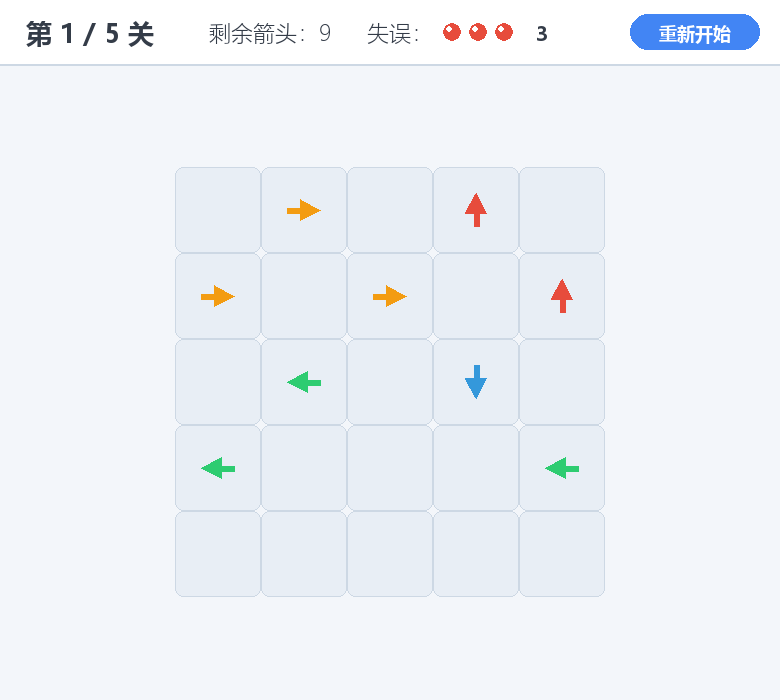
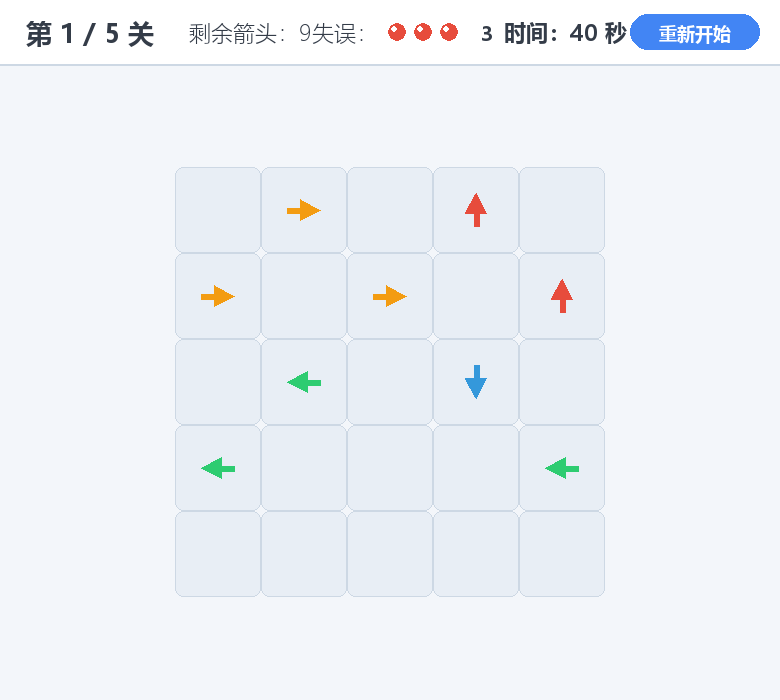
docs: 更新README、截图与流程图

Changed region(s): [[0.2462, 0.03, 0.8, 0.06]]

diff --git a/README.md b/README.md
@@ -13,17 +13,31 @@
 
 游戏包含 **5 个关卡**，箭头密度逐级增大（从 9 个到 30 个，最后一关 8×8 接近铺满棋盘），后两关失误次数降为 2 次，难度逐步提升。第 1 关为手工设计的新手关，第 2~5 关由 `tools/generate_level.py` 随机生成（逆向构造法，保证可通关），方向完全打散，不会出现“一整行同一方向”的规律布局。所有关卡均通过可解性求解器校验。
 
+**每关限时**：HUD 显示剩余秒数（≤10 秒变红），超时未通关则本关失败；**通关后按“用时 + 失误次数”评定 1~3 颗星**，全部通关界面显示总星数（满分 15 星）。
+
 ## 关卡难度表
 
-| 关卡 | 棋盘 | 箭头数量 | 依赖深度* | 失误次数 |
-| --- | --- | --- | --- | --- |
-| 第 1 关 | 5×5 | 9 | 3 | 3 |
-| 第 2 关 | 6×6 | 16 | 3 | 3 |
-| 第 3 关 | 6×6 | 18 | 5 | 3 |
-| 第 4 关 | 7×7 | 22 | 5 | 2 |
-| 第 5 关 | 8×8 | 30 | 6 | 2 |
+| 关卡 | 棋盘 | 箭头数量 | 依赖深度* | 失误次数 | 限时（秒） |
+| --- | --- | --- | --- | --- | --- |
+| 第 1 关 | 5×5 | 9 | 3 | 3 | 40 |
+| 第 2 关 | 6×6 | 16 | 3 | 3 | 55 |
+| 第 3 关 | 6×6 | 18 | 5 | 3 | 60 |
+| 第 4 关 | 7×7 | 22 | 5 | 2 | 75 |
+| 第 5 关 | 8×8 | 30 | 6 | 2 | 90 |
 
 \* 依赖深度：按“可消除的箭头一批批消除”的贪心模拟轮数，数值越大说明必须按顺序消除的链条越长、越考验规划。
+
+## 评分规则
+
+通关后按“用时 + 失误次数”评定 **1~3 颗星**（满分 15 星，全部通关界面显示总星数）：
+
+| 条件 | 星级 |
+| --- | --- |
+| 无失误，且用时 ≤ 限时的 60% | ★★★ |
+| 失误 ≤ 1 次，且用时 ≤ 限时的 85% | ★★ |
+| 其余情况（通关即有 1 星） | ★ |
+
+判定顺序：星级 = `max(1, 3 - max(时间分, 失误分))`，其中时间分 = 用时占比 ≤60%→0、≤85%→1、否则→2；失误分 = 失误 0 次→0、1 次→1、≥2 次→2。限时耗尽则本关失败（超时失败与失误耗尽同样进入失败界面）。
 
 ## 开发环境
 
@@ -54,12 +68,12 @@ python -m unittest discover -s tests -v
 
 - **开始界面**：点击“开始游戏”进入第 1 关；
 - **游戏界面**：鼠标左键点击棋盘中的箭头；
-  - 顶部显示：当前关卡、剩余箭头数量、剩余失误次数（红心）、重新开始按钮；
+  - 顶部显示：当前关卡、剩余箭头数量、剩余失误次数（红心）、剩余时间（≤10 秒变红）、重新开始按钮；
   - 箭头成功飞出时会有滑出动画；
   - 点击被阻挡的箭头时，箭头晃动、出现红色提示文字，失误次数减 1；
-- **通关界面**：点击“下一关”继续；
-- **失败界面**：点击“重新开始”恢复本关初始状态；
-- **全部通关后**：点击“返回首页”回到开始界面。
+- **通关界面**：显示用时、失误与评定的 1~3 颗星，点击“下一关”继续；
+- **失败界面**：失误次数耗尽或限时耗尽都会失败，点击“重新开始”恢复本关初始状态；
+- **全部通关后**：显示总星数（满分 15 星），点击“返回首页”回到开始界面。
 
 ## 游戏流程
 
@@ -99,7 +113,11 @@ python -m unittest discover -s tests -v
 
 ![失败界面](screenshots/failed.png)
 
-### 全部通关
+### 超时界面（限时耗尽）
+
+![超时界面](screenshots/timeout.png)
+
+### 全部通关（显示总星数）
 
 ![全部通关](screenshots/all_clear.png)
 
@@ -117,7 +135,7 @@ arrow-game/
 ├── requirements.txt      # 依赖
 ├── README.md
 ├── tests/
-│   └── test_game.py      # 自动化测试（覆盖作业要求 T01-T06 等 20 个用例）
+│   └── test_game.py      # 自动化测试（覆盖作业要求 T01-T06 及评分 T07-T12 等 28 个用例）
 ├── tools/
 │   ├── generate_level.py     # 随机生成可通关关卡（附加功能）
 │   ├── make_screenshots.py   # 无窗口生成各界面截图
